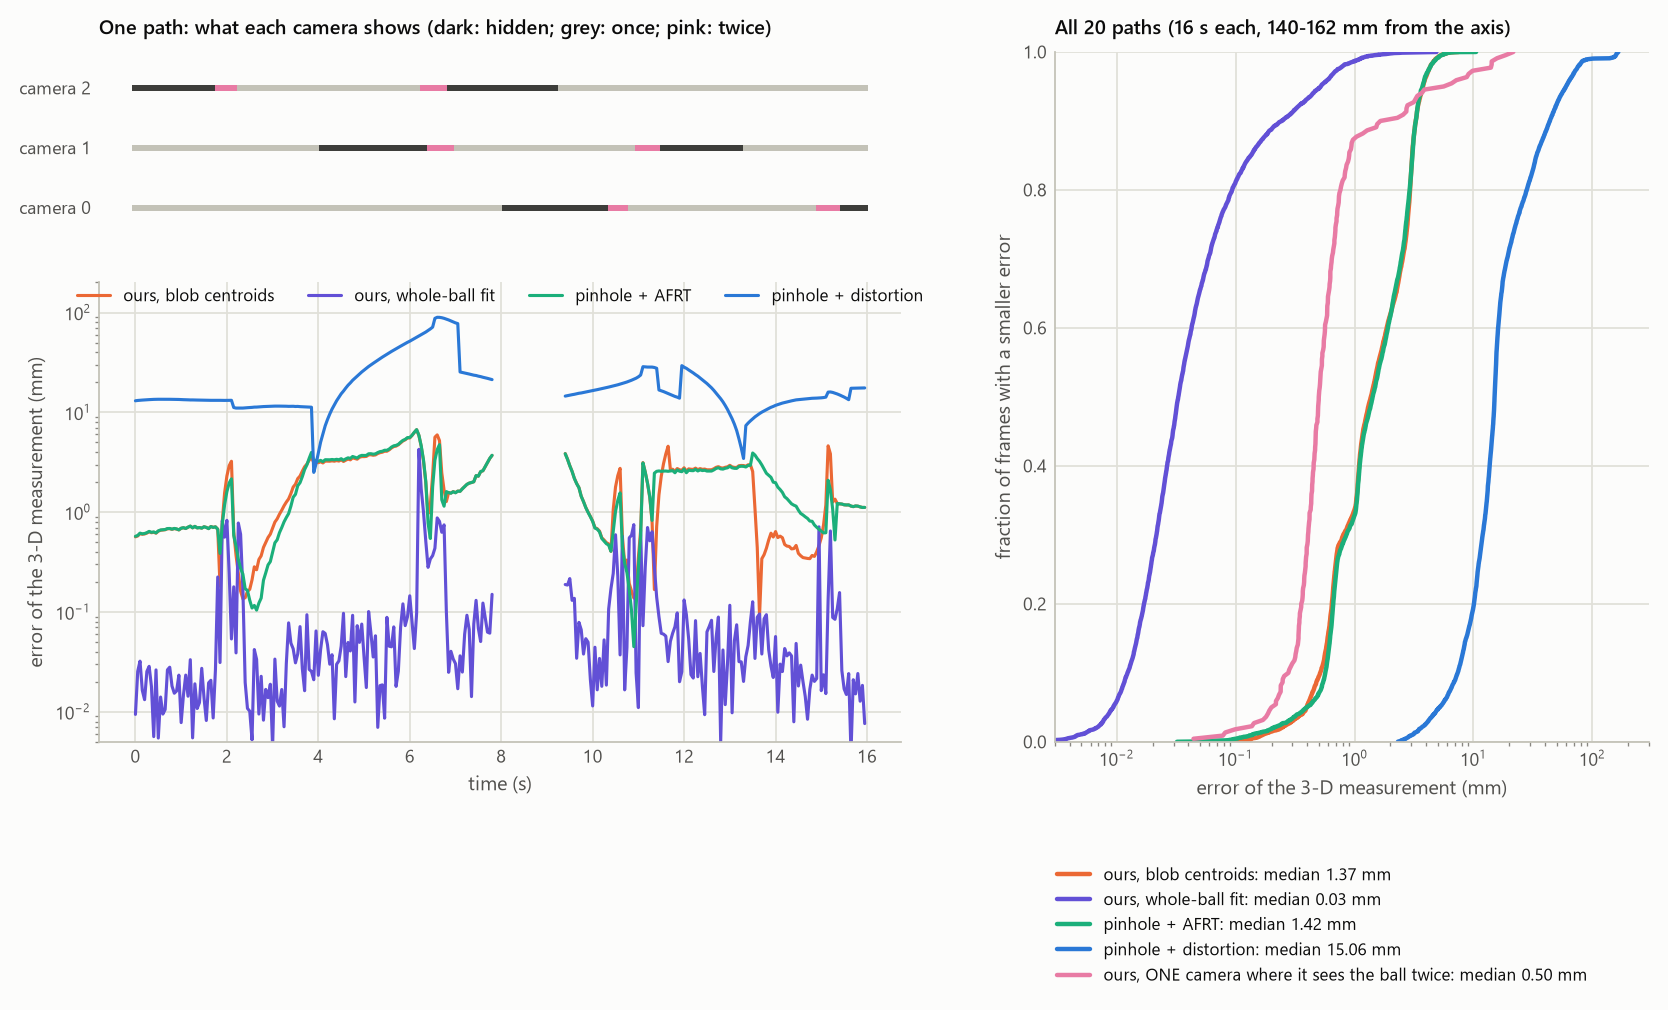
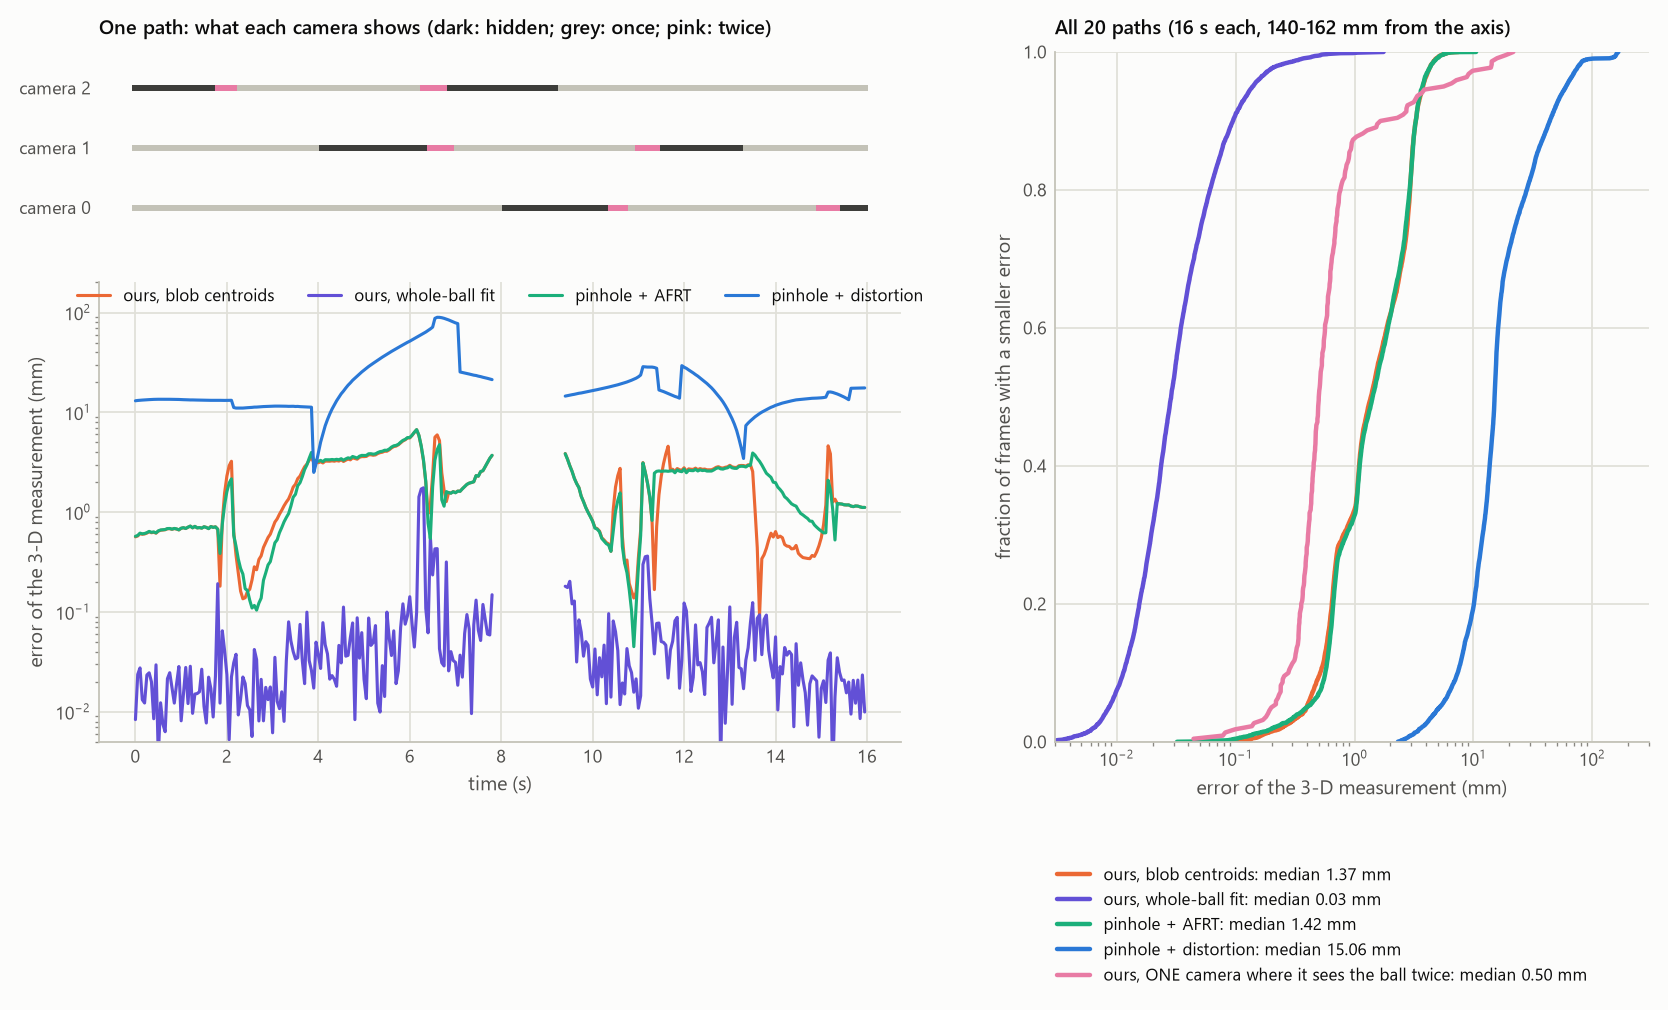
Demo D, parts 2-3: the three-camera whole-ball fit with part 4's two additions
The whole-ball tracking now takes pixel assignment (an image of the ball's surface counts toward the blob whose
pixels it lands on) and reliability weighting (each blob counts as well as two sets of surface points agree on it).
Its measurement error next to the wall: median 0.03 mm as before, 95th percentile 0.52 -> 0.14 mm, frames off by more
than 0.5 mm 5 % -> 0.5 %. The other perceptions are unchanged, frame by frame.

The one-camera fit takes neither: it starts 15-25 mm off, and with either addition it accepted more wrong points
(fits off by more than 5 mm: 12 without, 20 with the weighting, 29 with both). Its summary now counts "within 1 mm"
over the accepted fits (87 %), as its label says.

diff --git a/examples/demo_d_arm/fold_zone.py b/examples/demo_d_arm/fold_zone.py
@@ -11,8 +11,13 @@ its Kalman filter.  There is no arm: what is measured is what each perception kn
   * part 2: ours, pinhole + AFRT and pinhole + distortion, each blob's centroid taken as the image of the ball's centre;
   * part 3, the whole ball: ours fits the ball's centre to its blobs, predicted from every image of its surface and
     the Jacobian (ball_image.py).  And where one camera shows the ball twice, that camera alone locates it.
+The three-camera fit takes part 4's two additions: an image of the surface counts toward the blob whose pixels it lands
+on, or none (pixel assignment), and each blob counts as well as two sets of surface points agree on its prediction
+(reliability weighting; `ball_image.fit`, weigh=True).  The one-camera fit takes neither: it starts from the two rays'
+crossing, 15-25 mm from the ball, and with one camera either addition lets it settle, more often, on a wrong point
+that matches both blobs.
 
-    python examples/demo_d_arm/fold_zone.py --workers 6      # about 30 minutes
+    python examples/demo_d_arm/fold_zone.py --workers 6      # about 45 minutes
 """
 import json
 import sys
@@ -37,16 +42,19 @@ LABELS = {"refractive": "ours, blob centroids", "refractive_ball": "ours, whole 
 
 
 class RefractiveBall(D.Refractive):
-    """Ours, fitting the ball's centre to its blobs (ball_image.fit) from the centroid triangulation."""
+    """Ours, fitting the ball's centre to its blobs (ball_image.fit) from the centroid triangulation.  `regions` holds
+    each camera's blobs' pixels for the frame being measured."""
     name = "refractive_ball"
+    regions = None
 
     def locate(self, blobs, pred, gate=40.0):
         X0 = super().locate(blobs, pred, gate)
         if X0 is None:
             return None
-        obs = [(c, ball_image.blobs_near(X0, c, D.TANK, b)) for c, b in zip(self.cams, blobs)]
-        obs = [(c, b) for c, b in obs if len(b)]
-        X, rms = ball_image.fit(obs, X0, D.TANK, D.BALL_RGB)
+        obs = [(c, *ball_image.blobs_near(X0, c, D.TANK, b, regions=reg))
+               for c, b, reg in zip(self.cams, blobs, self.regions)]
+        obs = [o for o in obs if len(o[1])]
+        X, rms = ball_image.fit(obs, X0, D.TANK, D.BALL_RGB, weigh=True)
         return X if np.all(np.isfinite(X)) and rms < 2.0 else X0
 
 
@@ -103,7 +111,10 @@ def track(args):
         t = k * D.DT_CTRL
         ball = at(t)
         objs = D.inside_objects(ball, [])
-        blobs = [D.detect(c, objs) for c in cams]
+        found = [D.detect(c, objs, regions=True) for c in cams]
+        blobs, regions = [b for b, _ in found], [p for _, p in found]
+        if kind == "refractive_ball":
+            per.regions = regions
         pred = kf.predict(D.DT_CTRL)
         X = D.measure(per, blobs, pred, gap)
         gap = 0 if X is not None else gap + 1
@@ -166,18 +177,19 @@ def summarise(res, say):
     one = [o for r in res if r["kind"] == "refractive_ball" for x in r["rows"] for o in x["one_camera"]]
     raw = np.array([o[1] if o[1] is not None else np.nan for o in one], float)
     fit = np.array([o[2] if o[2] is not None else np.nan for o in one], float)
+    acc = fit[np.isfinite(fit)]
     say(f"\nOne camera alone, in the {len(one)} camera-frames where it shows the ball as two blobs:")
     say(f"  the two rays' crossing: a point that explains both blobs in {100 * np.mean(np.isfinite(raw)):.0f} %, error "
         f"median {np.nanmedian(raw):.1f} mm")
     say(f"  then the whole-ball fit: accepted in {100 * np.mean(np.isfinite(fit)):.0f} %, error median "
-        f"{np.nanmedian(fit):.2f} mm, 90th pct {np.nanpercentile(fit, 90):.2f} mm; within 1 mm "
-        f"{100 * np.nanmean(fit < 1):.0f} % of those")
+        f"{np.nanmedian(fit):.2f} mm, 90th pct {np.nanpercentile(fit, 90):.2f} mm; of those, within 1 mm "
+        f"{100 * np.mean(acc < 1):.0f} %, off by more than 5 mm {int(np.sum(acc > 5))}")
     say("  pinhole + AFRT: one image per camera, so one ray, not a point; pinhole + distortion: two straight lines "
         "through the camera's centre, which meet only there")
     out["one_camera"] = {"camera_frames": len(one), "raw_accepted": float(np.mean(np.isfinite(raw))),
                          "raw_median_mm": float(np.nanmedian(raw)), "fit_accepted": float(np.mean(np.isfinite(fit))),
                          "fit_median_mm": float(np.nanmedian(fit)), "fit_p90_mm": float(np.nanpercentile(fit, 90)),
-                         "fit_within_1mm": float(np.nanmean(fit < 1))}
+                         "fit_within_1mm": float(np.mean(acc < 1)), "fit_over_5mm": int(np.sum(acc > 5))}
     return out
 
 

diff --git a/examples/demo_d_arm/README.md b/examples/demo_d_arm/README.md
@@ -87,7 +87,7 @@ twice in 4.5 %, and once otherwise; one AFRT start found the visible ball in eve
 
 | Perception | 3-D measurement error, median | 95th pct. | Kalman estimate, median | Kalman estimate, max |
 |---|---:|---:|---:|---:|
-| **ours, whole-ball fit (part 3)** | **0.03 mm** | **0.52 mm** | **0.12 mm** | 30 mm |
+| **ours, whole-ball fit (part 3)** | **0.03 mm** | **0.14 mm** | **0.11 mm** | 30 mm |
 | ours, blob centroids | 1.37 mm | 3.76 mm | 1.49 mm | 16.5 mm |
 | pinhole + AFRT | 1.42 mm | 3.72 mm | 1.50 mm | 16.5 mm |
 | pinhole + distortion | 15 mm | 60 mm | 15 mm | 169 mm |
@@ -117,10 +117,14 @@ model instead:
 - an image counts if its ray meets the surface from outside;
 - it is weighted by the area it covers in the image, from `image_jacobians`, and by how the detector weighs its colour;
 - the ball's centre is fitted so that the predicted blob centroids match the measured ones (Gauss-Newton, with the
-  centroids' analytic derivative).
+  centroids' analytic derivative);
+- with the two additions of part 4: an image counts toward the blob whose pixels it lands on (pixel assignment), and
+  each blob counts as well as its prediction can be trusted (reliability weighting).
 
 **Results** (`fold_zone_out.txt`): the fit measures the ball to **0.03 mm** at the median next to the wall, 40 times
-better than the centroids (1.37 mm for ours, 1.42 mm for AFRT; table above).
+better than the centroids (1.37 mm for ours, 1.42 mm for AFRT; table above), and to 0.14 mm at the 95th percentile.
+- Part 4's two additions sharpened its tail. Without them the 95th percentile was 0.52 mm, the largest error 4.9 mm,
+  and 5 % of the measurements were off by more than 0.5 mm; with them, 0.5 % (largest 1.75 mm).
 - It needs every image of the ball's surface (where the wall shows part of it twice, or clips it) and the Jacobian of
   each. One AFRT start gives one image per surface point and no derivative; with finite differences of its own
   iterations it can make the same fit, at about 18 times the cost (part 4).
@@ -133,6 +137,9 @@ so the camera is a stereo pair.
   ball as two blobs, the fit was accepted in 82 %, with an error of **0.50 mm** at the median (90th percentile
   1.7 mm), from one camera. The two rays' crossing alone is 17 mm off: the stretched blobs' centroids are not the
   images of the ball's centre, and two rays from one camera cross at a shallow angle.
+- This fit takes neither of part 4's additions. It starts from the rays' crossing, 15–25 mm off, and with one camera
+  either addition lets it settle more often on a wrong point that still matches both blobs: of its accepted fits, 12
+  were off by more than 5 mm without them, 20 with the weighting and 29 with both.
 - **Pinhole + AFRT:** one AFRT start knows one image, so the camera gives a ray, not a point.
 - **Pinhole + distortion:** two straight lines from one centre meet only there.
 
@@ -148,7 +155,7 @@ tip at the ball's centre.
 
 | Perception | How it locates the ball | The window's closed forms |
 |---|---|---|
-| **ours, whole ball** | part 3's fit: every image of the ball's surface by `project()`, weighted with `image_jacobians`, with two safeguards next to the caustic (below) | used |
+| **ours, whole ball** | part 3's fit: every image of the ball's surface by `project()`, weighted with `image_jacobians`, with pixel assignment and reliability weighting next to the caustic (below) | used |
 | AFRT alone, whole ball | the same fit with AFRT only: each surface point's image from one AFRT start, every derivative by finite differences of AFRT (`afrt_ball.py`) | none |
 | AFRT, blob centroids | parts 1–2's AFRT perception | none |
 | pinhole + distortion | parts 1–2 | none |
@@ -180,9 +187,9 @@ tip at the ball's centre.
   second copy of the ball (17 px of 430, 53 px from the main blob), exactly a part that AFRT does not predict, and
   that biased ours' fit in one trial.
 
-### Where the fit missed, and two safeguards
+### Where the fit missed: pixel assignment and reliability weighting
 
-Without the two safeguards below, ours missed one placement next to the wall (0.52 mm from the centre), and AFRT
+Without the two additions below, ours missed one placement next to the wall (0.52 mm from the centre), and AFRT
 alone missed two (0.86 and 1.53 mm).
 - **It was neither the projection nor a stuck fit.** The ball sat 137.7 mm from the axis, just past where the wall
   starts to hide points or show them twice (135 mm). Camera 2 saw it across the caustic: a fifth of the ball's
@@ -199,17 +206,17 @@ alone missed two (0.86 and 1.53 mm).
   from the main blob. The fit counted the sliver's predicted image into the main blob, the nearest one, and that
   shifted the blob's prediction by 0.5 px.
 
-Both whole-ball fits now take two safeguards (`ball_image.fit(..., weigh=True)`, given each blob's pixels by
+Both whole-ball fits now take two additions (`ball_image.fit(..., weigh=True)`, given each blob's pixels by
 `detect(..., regions=True)`):
-1. **Each blob counts as much as it can be predicted.**
+1. **Reliability weighting: each blob counts as much as it can be predicted.**
    - It is predicted from two sets of 400 surface points, the second a rotation of the first.
    - Their mean is the prediction, and half their difference, s, is its uncertainty.
    - The blob's residual is weighted by 1 / √(0.1² + s²) per pixel.
 
    At the missed placement's true centre the two sets differ by 2.8 px for camera 2, against 0.002 and 0.014 px for
    cameras 0 and 1, so camera 2 counts for little.
-2. **A predicted image counts toward a blob only if it lands on it,** within 3 px of the blob's pixels. A piece of the
-   ball the detector missed then biases no blob.
+2. **Pixel assignment: a predicted image counts toward a blob only if it lands on it,** within 3 px of the blob's
+   pixels. A piece of the ball the detector missed then biases no blob.
 
 | Placement next to the wall | ours, before → after | AFRT alone, before → after |
 |---|---:|---:|
@@ -217,7 +224,8 @@ Both whole-ball fits now take two safeguards (`ball_image.fit(..., weigh=True)`,
 | a camera sees the ball's centre twice, 138.6 mm | 0.301 → 0.023 mm | 0.862 → 0.176 mm |
 | the undetected sliver, 138.7 mm | 0.159 → 0.015 mm | 0.016 → 0.015 mm |
 
-The safeguards double the work per estimate. Parts 2–3 run the fit without them.
+The weighting doubles the work per estimate. Part 3's three-camera tracking takes both additions too; its one-camera
+fit takes neither (part 3).
 
 **Limits:**
 - the frames are synthetic, with no noise, blur or reflections;
